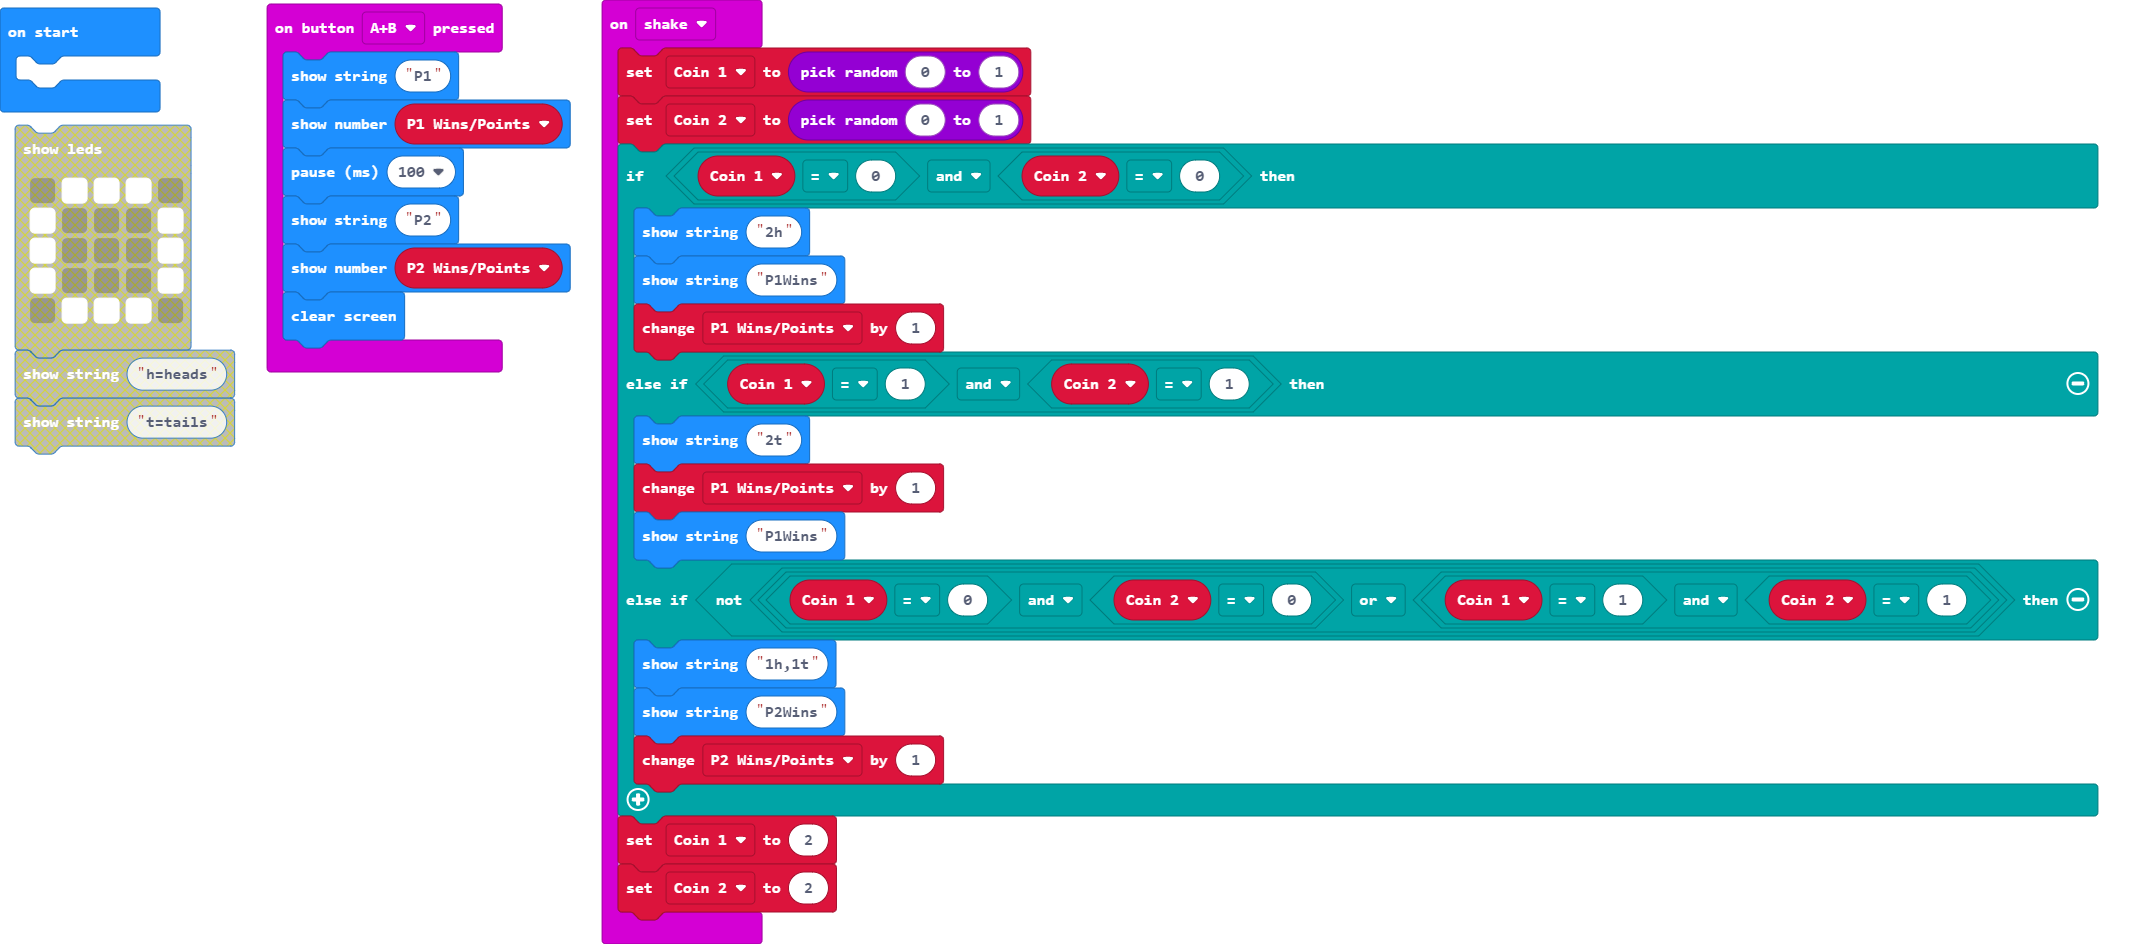
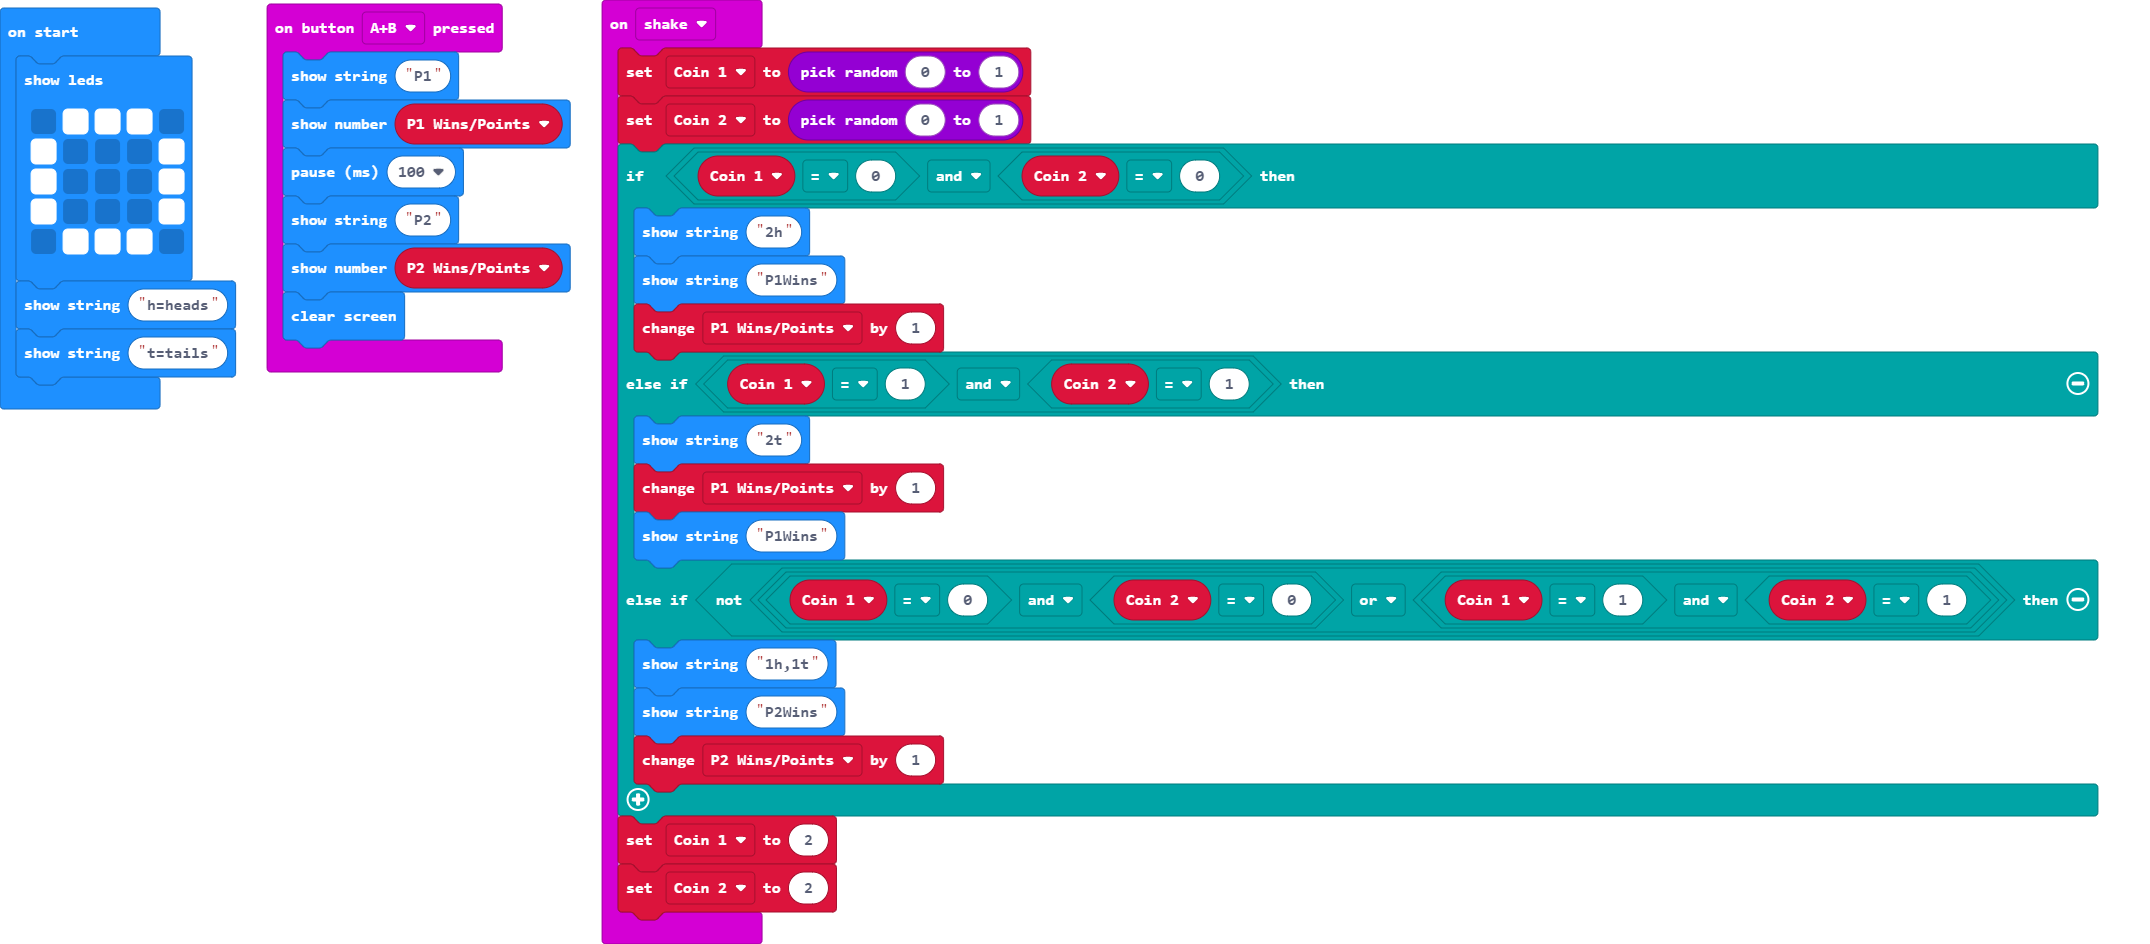
Update main.blocks, main.ts

Changed region(s): [[0.0, 0.0614, 0.1247, 0.4915]]

diff --git a/main.ts b/main.ts
@@ -1,7 +1,3 @@
-let P1_WinsPoints = 0
-let P2_WinsPoints = 0
-let Coin_1 = 0
-let Coin_2 = 0
 input.onButtonPressed(Button.AB, function () {
     basic.showString("P1")
     basic.showNumber(P1_WinsPoints)
@@ -29,3 +25,16 @@ input.onGesture(Gesture.Shake, function () {
     Coin_1 = 2
     Coin_2 = 2
 })
+let Coin_2 = 0
+let Coin_1 = 0
+let P2_WinsPoints = 0
+let P1_WinsPoints = 0
+basic.showLeds(`
+    . # # # .
+    # . . . #
+    # . . . #
+    # . . . #
+    . # # # .
+    `)
+basic.showString("h=heads")
+basic.showString("t=tails")
